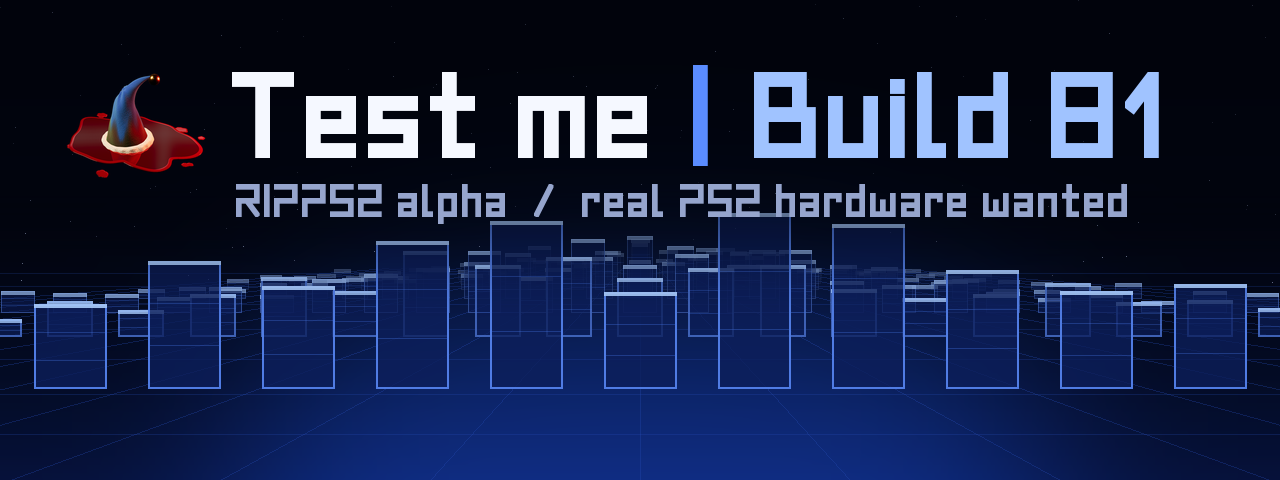
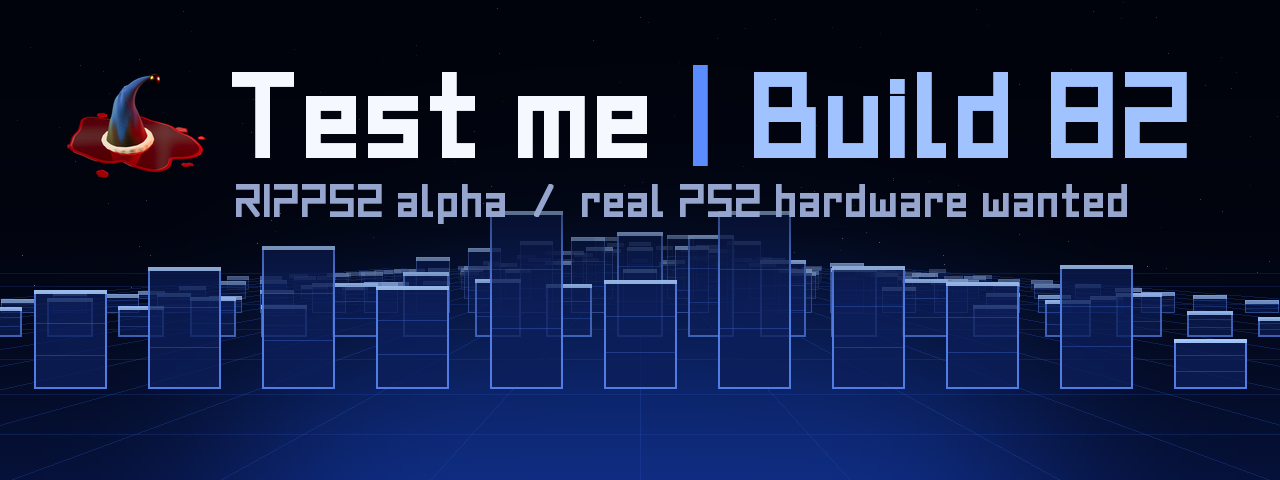
Build 82 release: README on build 82, the theme pack caught up, release and Discord notes; COPY CANCELED
- README: Kill it, build 82 (download, what's new), RIPgrid's flip and page slide and HD text in Since the
  build 66 reel, the Test me banner for build 82, and US spellings in its prose (color, analyzer, center,
  license, behavior).
- CHANGELOG: a Grid's back_pattern key, the theme pack for build 82 (everything since the build 80 pack).
- The audio CD copy says COPY CANCELED, the last UK spelling on screen (build 82's test checks it).
- tools/discord/notes/release82.md and build82.md, with a test list for HD text, the flip and the slide.

diff --git a/elf/tests/test_ripps2_build82.py b/elf/tests/test_ripps2_build82.py
@@ -8,7 +8,7 @@ from pathlib import Path
 root = Path(os.environ.get('RIPTOPL_DIR', '.'))
 rd = lambda p: (root / p).read_text(encoding='utf-8')
 rm, th, ui, lng = rd('src/renderman.c'), rd('src/themes.c'), rd('src/ripps2ui.c'), rd('lng_tmpl/_base.yml')
-about, files = rd('src/ripps2about.c'), rd('src/ripps2files.c')
+about, files, cd = rd('src/ripps2about.c'), rd('src/ripps2files.c'), rd('src/ripps2cd.c')
 fail = []
 
 # --- HD: a glyph's width scale must be 0.75 of the frame's x scale (fntsys: ws = hs * PAR)
@@ -26,7 +26,7 @@ for mode, frame in (('GS_MODE_DTV_720P', False), ('GS_MODE_DTV_1080I', True)):
         fail.append('%s text width scale %.3f, wants %.3f (PAR %d/%d upside down?)' % (mode, ws, want, par2, par1))
 
 # --- US spellings on screen
-for text, where in (('Update cancelled.', lng), ('colour depth', lng), ('MIT licence', about), ('behaviour reference', about), ('"CENTRE"', files)):
+for text, where in (('Update cancelled.', lng), ('colour depth', lng), ('MIT licence', about), ('behaviour reference', about), ('"CENTRE"', files), ('"COPY CANCELLED"', cd)):
     if text in where:
         fail.append('UK spelling on screen: %s' % text)
 

diff --git a/README.md b/README.md
@@ -1,19 +1,19 @@
-<p align="center"><img src="media/ripps2-test-me.png" alt="RIPPS2: Test me, build 81, the dead elf in its blue hat over the towers"></p>
+<p align="center"><img src="media/ripps2-test-me.png" alt="RIPPS2: Test me, build 82, the dead elf in its blue hat over the towers"></p>
 
 # RIPPS2
 
-> ### Kill it: RIPPS2 build 81 (alpha)
+> ### Kill it: RIPPS2 build 82 (alpha)
 > **RIP PS2, the ELF killer.** ELF-sufficient, never ELF-destructive: your other ELFs stay safe on the [shelf](https://akilluminati47.github.io/RIPPS2/) (nothing is deleted unless you ask), they just get a well-earned rest.
-> 1. **[Download RIPPS2.elf](https://github.com/akilluminati47/RIPPS2/releases/download/v0.0.81-alpha/RIPPS2.elf)** (one file, about 2.9 MB), and the **[theme pack](https://github.com/akilluminati47/RIPPS2-themes/releases/latest)** if you like (Adapt, Adapt Rx, RIPgrid).
+> 1. **[Download RIPPS2.elf](https://github.com/akilluminati47/RIPPS2/releases/download/v0.0.82-alpha/RIPPS2.elf)** (one file, about 2.9 MB), and the **[theme pack](https://github.com/akilluminati47/RIPPS2-themes/releases/latest)** if you like (Adapt, Adapt Rx, RIPgrid).
 > 2. Copy it to a USB stick or memory card, and launch it from FreeMcBoot, PS2BBL, wLaunchELF or whatever you already use to start homebrew. In PCSX2: **System > Start File** and pick `RIPPS2.elf`.
 > 3. Tell us how it went: [open an issue](https://github.com/akilluminati47/RIPPS2/issues) or find **#RIPPS2** on the developers' Discord, [discord.gg/ggkCDWqhE](https://discord.gg/ggkCDWqhE) (invite good for October 2026).
 >
-> [What's new in build 81](https://github.com/akilluminati47/RIPPS2/releases/tag/v0.0.81-alpha) | [Changelog](CHANGELOG.md) | [Watch the build 66 reel](https://youtu.be/jRbt9ScaBNw) | [Every release](https://github.com/akilluminati47/RIPPS2/releases)<br>
+> [What's new in build 82](https://github.com/akilluminati47/RIPPS2/releases/tag/v0.0.82-alpha) | [Changelog](CHANGELOG.md) | [Watch the build 66 reel](https://youtu.be/jRbt9ScaBNw) | [Every release](https://github.com/akilluminati47/RIPPS2/releases)<br>
 > [Theme RIPPS2](https://github.com/akilluminati47/RIPPS2-themes) (no rebuild, agent friendly) | [Fill your AUDIO folder](#the-sound-ripps2-was-made-with) with RIPPS2 Audio Studio
 
 RIPPS2 is a PS2 front end in a single `.elf`: a teardown and rebuild of [RiptOPL](https://github.com/NathanNeurotic/Open-PS2-Loader) (the Open PS2 Loader fork) with its own look, launchers, file browser and save tools. Glass towers stand behind your games and orbit formations behind your files, all drawn live by the PS2.
 
-- **LAUNCH DISC** boots PS2, PS1 and DVD video discs, says which game is in the drive before you start it, and plays audio CDs with the towers turned into a spectrum analyser.
+- **LAUNCH DISC** boots PS2, PS1 and DVD video discs, says which game is in the drive before you start it, and plays audio CDs with the towers turned into a spectrum analyzer.
 - **STORAGE** is your game library: every drive in one list, with art, an info page whose art crossfades with the screenshots, and per-game settings.
 - **MEMORY FILES** is a built-in file browser: copy, move and delete across memory cards, USB and HDD; open OPL's VMC card images like folders; export and import PSU saves; edit text files; Start opens its settings.
 
@@ -21,12 +21,12 @@ It is **alpha**. It runs in PCSX2, and it is being tested now by ripto, nuno6573
 
 ## Since the build 66 reel
 
-- **Themes you can make your own.** Frosted glass panels over each game's art, a cover **Grid** element, right-stick tilt that moves a whole page as one sheet, and the first pack, **[RIPPS2-themes](https://github.com/akilluminati47/RIPPS2-themes)**: Adapt, Adapt Rx and RIPgrid, with a checker, previewer and key reference for anyone (or any agent) making more. Hold **SELECT** for 4.2 seconds to step through your themes.
-- **RIPFLOW**, the built-in cover carousel, and **Colors and More**: six colour themes (RIPPS2, Ember, Blood, Ectoplasm, Amethyst, Bone), D-pad glyphs, fading hints and category bar, the source name as a toast in the middle of the page; themes can pick all of it for themselves, and your own settings always win.
+- **Themes you can make your own.** Frosted glass panels over each game's art, a cover **Grid** element, right-stick tilt that moves a whole page as one sheet, and the first pack, **[RIPPS2-themes](https://github.com/akilluminati47/RIPPS2-themes)**: Adapt, Adapt Rx and RIPgrid, with a checker, previewer and key reference for anyone (or any agent) making more. Hold **SELECT** for 4.2 seconds to step through your themes. On RIPgrid, hold the right stick to one side for 2 seconds and the chosen case turns over to its back cover, and the grid turns its pages with a slide.
+- **RIPFLOW**, the built-in cover carousel, and **Colors and More**: six color themes (RIPPS2, Ember, Blood, Ectoplasm, Amethyst, Bone), D-pad glyphs, fading hints and category bar, the source name as a toast in the middle of the page; themes can pick all of it for themselves, and your own settings always win.
 - **Everything it needs, on board.** Neutrino 1.8.0, POPSTARTER and Ember ride inside the one `.elf` and install themselves where your games are; **STATUS** on the START menu shows where each one is and installs or sets it up.
 - **BIBLE**: PS2BBL 1.2.0 set up for RIPPS2, on a memory card or the internal HDD, so the console boots straight into it. Boot Loader > Manage shows what each card starts.
 - **Achievements** (SpiritofRA): RetroAchievements telemetry through the xeRAbora client on your PC, badges on tracked games, the disc in the tray, and **YOUR ACCOUNT**, every game you have checked with what you have unlocked.
-- **Cover Art** fetched by the PS2 itself over HTTPS, **720p and 1080i** drawn in one pass at full detail, your **AUDIO** folder found on any drive, and towers and orbs that run all night at a steady 60 fps.
+- **Cover Art** fetched by the PS2 itself over HTTPS, **720p and 1080i** drawn in one pass at full detail (text the right size since build 82), your **AUDIO** folder found on any drive, and towers and orbs that run all night at a steady 60 fps.
 - **Guard rails**: every build runs RiptOPL's host checks and RIPPS2's own, and a new warning in a RIPPS2 file fails it.
 
 Build 55's [reel](media/ripps2-b55-reel.mp4) and short clips: [info page](media/ripps2-b55-info.mp4), [orbs](media/ripps2-b55-orbs.mp4), [card images and PSU](media/ripps2-b55-cards.mp4), [browser settings](media/ripps2-b55-grid.mp4), [launch disc](media/ripps2-b55-disc.mp4). Build 22's [demo reel](media/ripps2-b22-demo.mp4) is still there too.
@@ -74,7 +74,7 @@ RIPPS2 started life as a web theme, and that version is still here: **live demo*
 
 | Option | Opens |
 | --- | --- |
-| **Launch Disc** | The pillars, with a double blast fired into the centre of the field |
+| **Launch Disc** | The pillars, with a double blast fired into the center of the field |
 | **Storage** | The pillars |
 | **Memory Files** | The orbs |
 
@@ -100,15 +100,15 @@ RIPPS2 is designed and directed by akilluminati47 and built with Claude (Anthrop
 - [ESR](https://gitlab.com/ffgriever/esr/) by ffgriever: Launch Disc starts your own copy for ESR discs.
 - [Ember](https://github.com/Gageformer/Ember/releases) by Gageformer, the PS1 emulator for the PS2: from build 71 RIPPS2.elf carries its Beta-2 build unmodified, under the Ember Public Beta Testing Licence, and writes it into a drive's `EMBER` folder the first time an Ember game is launched from there ([`elf/ember`](elf/ember/README.md)). Bring your own PS1 BIOS.
 - [POPSTARTER](https://www.psx-place.com/resources/popstarter.683/) by krHACKen starts PS1 games from your own copy, which RIPPS2 finds on your drives.
-- [PS2BBL](https://github.com/israpps/PlayStation2-Basic-BootLoader) by El Isra (israpps) and [PS2BBL Extended](https://github.com/saildot4k/PlayStation2-Basic-BootLoader-Extended) by saildot4k: BOOT LOCK edits their config so the console starts RIPPS2. From build 69, RIPPS2.elf carries El Isra's signed PS2BBL 1.2.0 unchanged, as data, for **Boot Loader > Manage** (BIBLE) to install on a memory card. PS2BBL is GPL-3.0: its licence and the exact source it was built from ([commit a063bb3](https://github.com/israpps/PlayStation2-Basic-BootLoader/tree/a063bb3)) are in [`elf/bible`](elf/bible/README.md). The card binding uses ps2sdk's open SECRMAN (AFL); no keys are involved.
-- [wLaunchELF](https://github.com/ps2homebrew/wLaunchELF) by the ps2homebrew team, and wLaunchELF R3Z by NathanNeurotic: the behaviour references for the Memory Files browser and its settings grid.
+- [PS2BBL](https://github.com/israpps/PlayStation2-Basic-BootLoader) by El Isra (israpps) and [PS2BBL Extended](https://github.com/saildot4k/PlayStation2-Basic-BootLoader-Extended) by saildot4k: BOOT LOCK edits their config so the console starts RIPPS2. From build 69, RIPPS2.elf carries El Isra's signed PS2BBL 1.2.0 unchanged, as data, for **Boot Loader > Manage** (BIBLE) to install on a memory card. PS2BBL is GPL-3.0: its license and the exact source it was built from ([commit a063bb3](https://github.com/israpps/PlayStation2-Basic-BootLoader/tree/a063bb3)) are in [`elf/bible`](elf/bible/README.md). The card binding uses ps2sdk's open SECRMAN (AFL); no keys are involved.
+- [wLaunchELF](https://github.com/ps2homebrew/wLaunchELF) by the ps2homebrew team, and wLaunchELF R3Z by NathanNeurotic: the behavior references for the Memory Files browser and its settings grid.
 - [Apollo Save Tool](https://github.com/bucanero/apollo-ps2) by bucanero: the reference for the save tools (PSU, card images). RIPPS2's own code, written from the formats.
 - [ps2sdk](https://github.com/ps2dev/ps2sdk) by the ps2dev team: the memory card file system (mcman) and the USB keyboard driver.
 - mymc by Ross Ridge and [mymcplus](https://github.com/thestr4ng3r/mymcplus) by Florian Maerkl: what RIPPS2's card image writes are checked against.
 - Planet N Compact by [Iconian Fonts](https://www.iconian.com) (`assets/master.ttf`). [RIPPS2 Sleek](https://github.com/akilluminati47/RIPPS2-fonts) (Regular, Bold, Bold Case) is drawn for RIPPS2; its own repo has the fonts as TTF and WOFF2 under the OFL.
 - Web version: [three.js](https://threejs.org) r160, MIT (see `vendor/LICENSE`); [Albert Sans](https://github.com/usted/Albert-Sans), SIL Open Font License (see `vendor/fonts/OFL.txt`).
 - The web mockup's elf shelf (Storage, [akilluminati47.github.io/RIPPS2](https://akilluminati47.github.io/RIPPS2/)) stands on the wooden plank from [uOPL](https://github.com/SlimPugGamer/uOPL) (`gfx/plank.png`, AFL-3.0).
-- The RIPPS2 mark, the dead elf in its blue hat, is original: rendered in three.js (MIT) from `media/deadelf/scene.html` (every angle and colour in `media/deadelf`), with a vector version in `assets/ripps2-deadelf.svg`.
+- The RIPPS2 mark, the dead elf in its blue hat, is original: rendered in three.js (MIT) from `media/deadelf/scene.html` (every angle and color in `media/deadelf`), with a vector version in `assets/ripps2-deadelf.svg`.
 - The build 66 reel (on YouTube) is set to Slideshow (Daytime) by Kazumi Totaka, from the Wii News Channel (Nintendo, 2006); the build 55 reel's music is original. Game art seen in testing came from the community OPL art database and is not part of RIPPS2.
 
 Unofficial fan project. PlayStation, PS1, PS2, the PlayStation logo and the PS2 logo are trademarks of Sony Interactive Entertainment. This project is not affiliated with or endorsed by Sony.

diff --git a/tools/discord/notes/release82.md b/tools/discord/notes/release82.md
@@ -1,0 +1,17 @@
+## Kill it: RIPPS2 build 82 (alpha)
+
+**Judge a game by its back cover.** RIPgrid turns its cases over now, HD text stopped shouting, and the theme pack finally caught up.
+
+**[Download RIPPS2.elf](https://github.com/akilluminati47/RIPPS2/releases/download/v0.0.82-alpha/RIPPS2.elf)**, the **[theme pack for build 82](https://github.com/akilluminati47/RIPPS2-themes/releases/latest)** (Adapt, Adapt Rx, RIPgrid), and **[theme it yourself](https://github.com/akilluminati47/RIPPS2-themes)**: every key in one guide, no rebuild.
+
+### New in 82
+- **HD text fixed.** At 720p and 1080i the text came out four times (and two and a quarter times) too wide and spilled over every panel, as a tester reported. It is the right size again, the same as 480p. No more big talk.
+- **RIPgrid turns cases over.** Hold the right stick to one side for 2 seconds and the chosen case flips to its back cover, leaning the way you hold. It stays turned when you move on and when you come back; hold again to turn it home. A theme picks the back's art with `back_pattern`.
+- **RIPgrid turns pages.** The grid moves a whole page at a time, the new page sliding in as the old one leaves, eased like RIPFLOW's carousel.
+- **US English on screen**: canceled, color, license, behavior, center. Sorry, colour.
+- **The theme pack for build 82**: Adapt's case shows the front, then the back; Adapt Rx keeps its side bar on the left; both keep the disc under LAUNCH DISC; RIPgrid is set in RIPPS2 Sleek. If you downloaded the pack for build 81, download it again: the build 80 pack was still the latest one until now.
+
+### Your sounds
+RIPPS2 was voiced with Sony's own PS2 sounds and a Nintendo track to browse by. None of it ships, but **[the sound map](https://github.com/akilluminati47/RIPPS2#the-sound-ripps2-was-made-with)** shows every event's sound, and **[RIPPS2 Audio Studio](https://github.com/akilluminati47/RIPPS2/tree/main/tools/audio-studio)** rips them from your own console's BIOS into an `AUDIO` folder beside `RIPPS2.elf`.
+
+Full list: [CHANGELOG.md](https://github.com/akilluminati47/RIPPS2/blob/main/CHANGELOG.md). Alpha: keep your usual loader close by.

diff --git a/tools/discord/notes/build82.md b/tools/discord/notes/build82.md
@@ -1,0 +1,21 @@
+# Build 82: HD text that fits, RIPgrid cases that turn over, pages that slide, and the theme pack caught up.
+
+## HD text
+- **720p and 1080i** text is the right size again. It came out four times too wide at 720p (two and a quarter at 1080i) and spilled everywhere: thanks for the report.
+
+## RIPgrid
+- **Hold the right stick to one side for 2 seconds**: the chosen case flips over to its back cover. It stays turned when you move on and come back; hold again to turn it home.
+- **Pages slide**: Down past the second row and the next page slides in, like RIPFLOW's carousel.
+
+## The theme pack for build 82
+- **Download the [theme pack](https://github.com/akilluminati47/RIPPS2-themes/releases/latest) again**: the build 81 changes only reach you now (Adapt's case front then back, the disc under LAUNCH DISC, RIPgrid in RIPPS2 Sleek). Make your own: [RIPPS2-themes](https://github.com/akilluminati47/RIPPS2-themes), every key in one guide.
+
+## Test list
+- **720p and 1080i** (Settings > Interface > Video Mode): is the text the right size on the list, the info page, Settings and STATUS? Does confirming the new mode, or letting it time out, still freeze?
+- **RIPgrid**: hold the right stick right for 2 seconds: does the case turn over to its back? Move off and come back: still turned? Hold left: back home?
+- **RIPgrid**: Down past the second row: does the next page slide in, and Up slide it back?
+- **A game with no back cover** (no `_COV2` art): does the hold leave the case alone?
+- **Audio CD copy**: cancel one: does it say COPY CANCELED?
+
+## Report
+Post here with your **console model**, video mode (4:3 or 16:9, and which HD mode), which theme, and a **photo** of anything odd.

diff --git a/CHANGELOG.md b/CHANGELOG.md
@@ -8,9 +8,13 @@
 ### RIPgrid
 - **Turn the case over.** Hold the right stick to one side for 2 seconds and the chosen case flips to its back cover, the way you lean. It stays turned on the grid when you move on and when you come back; hold again to turn it home. The back cover is asked for as soon as the front is in, and the flip waits for it.
 - **Pages slide.** The grid moves by whole pages now, and a new page slides in as the old one slides away, eased like RIPFLOW's carousel (off when Coverflow's animation speed is 0).
+- Themes: a Grid's new `back_pattern` key picks what a turned case shows (`COV2`, the back cover, unless a theme says otherwise; `SCR` puts a screenshot there; `0` turns the flip off). The back covers get a cache of their own, a page and two deep.
+
+### Theme pack
+- **RIPPS2-themes for build 82**: everything since the build 80 pack in one download. Adapt's case shows the front, then the back; its info page sits opposite the list; Adapt Rx keeps its side bar on the left, and both keep the disc under LAUNCH DISC; RIPgrid is set in RIPPS2 Sleek with the Grunge theme's button glyphs; every image is an 8-bit PNG.
 
 ### US spellings
-- What the menus say is in US English: canceled, color, license, behavior, center.
+- What the menus say is in US English: canceled (the CD copy too), color, license, behavior, center.
 
 ## Build 81 (testing), changes since build 80
 
